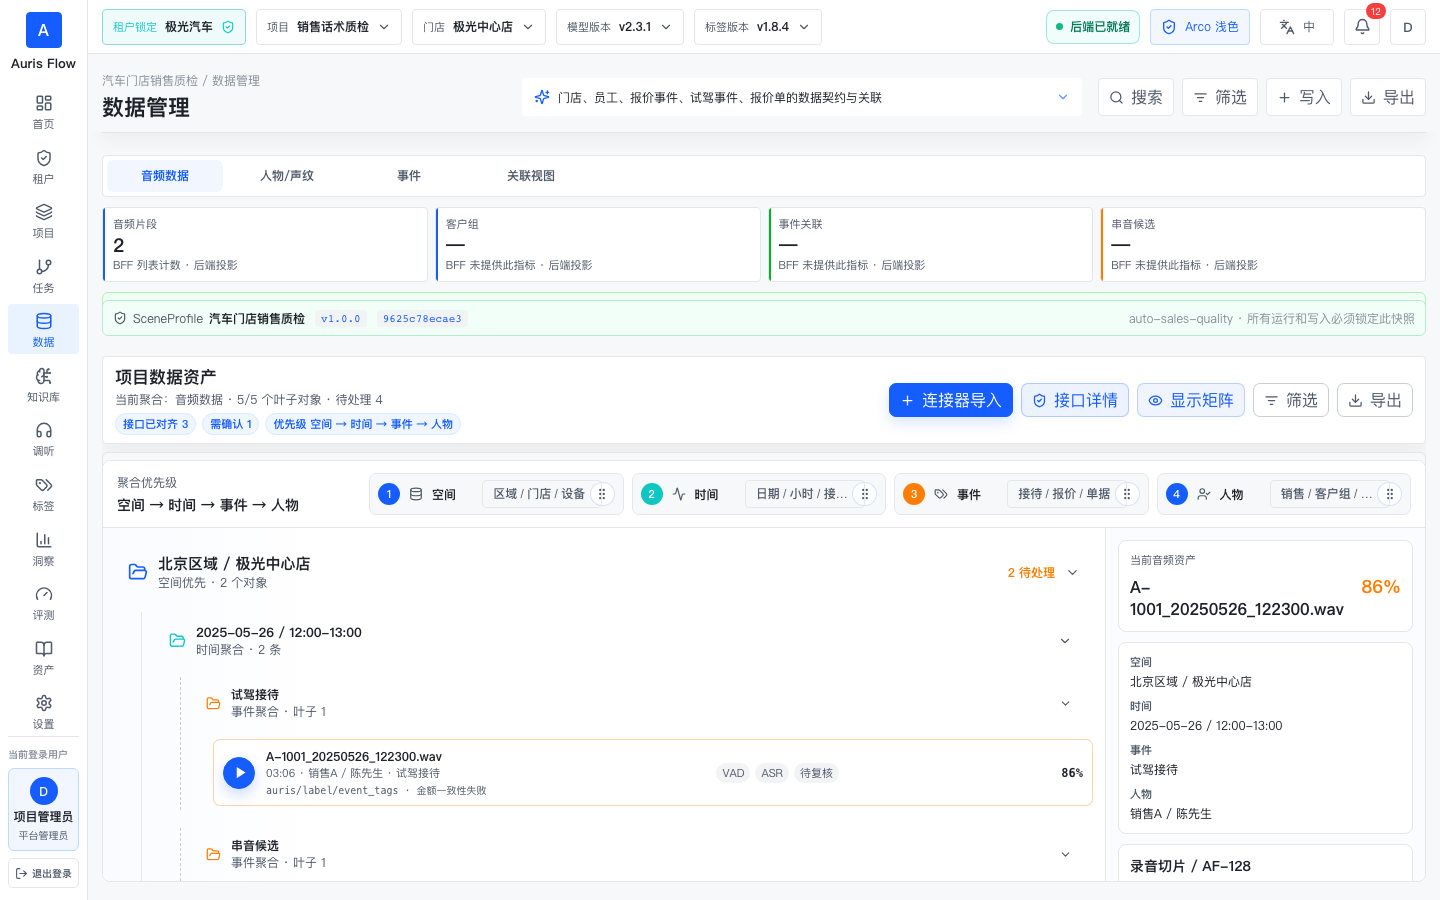
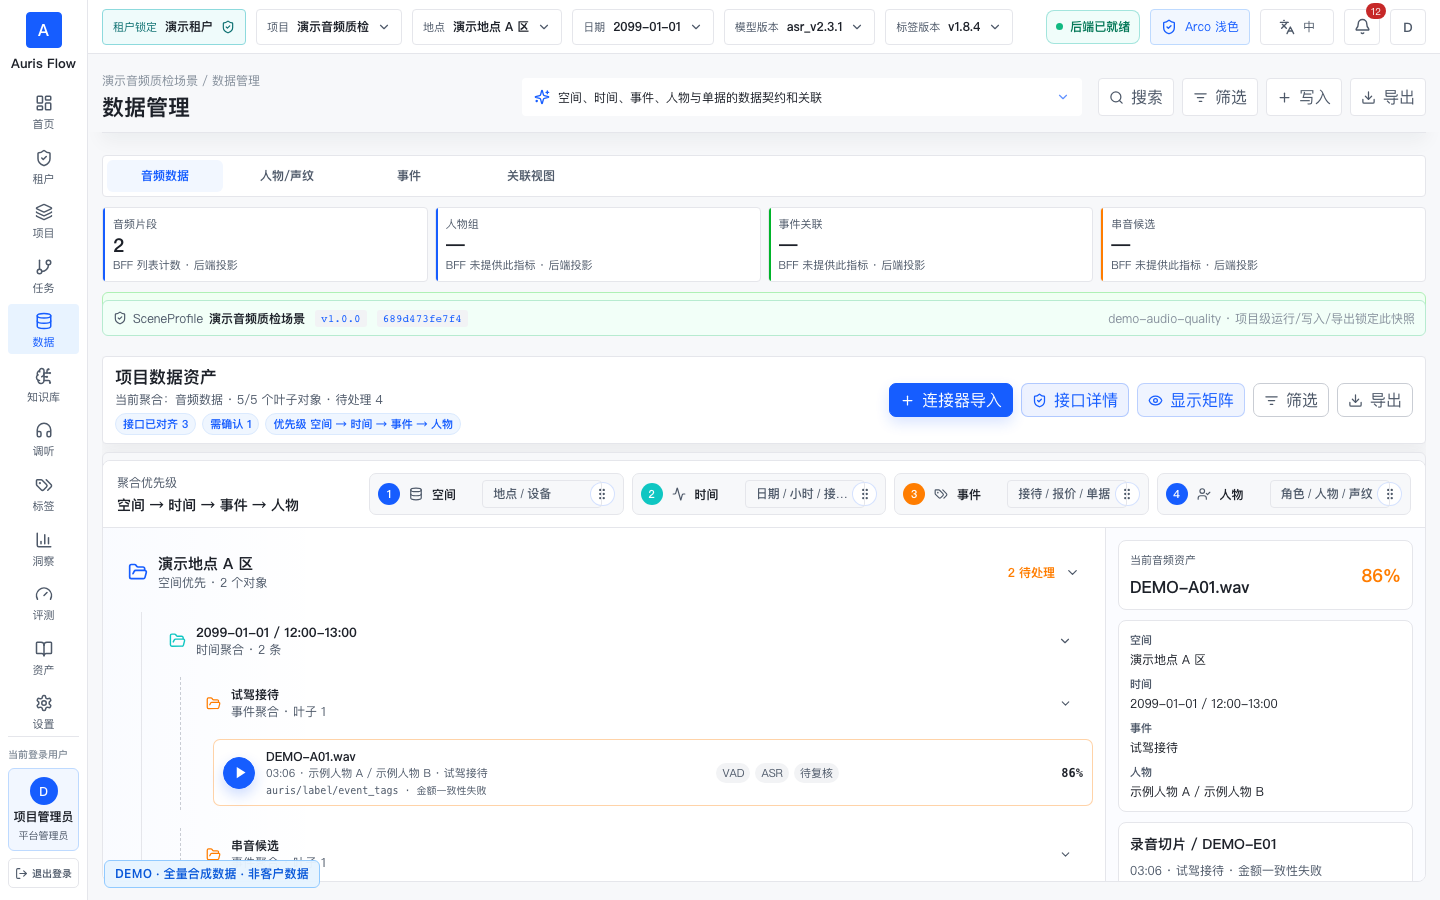
docs(readme): clarify synthetic operation screenshots (#38)
* docs(readme): clarify synthetic operation screenshots

* docs(readme): use synthetic location data

* style(tests): format Dagster gate contract

---------

diff --git a/backend/tests/unit/test_real_dagster_gate_scripts.py b/backend/tests/unit/test_real_dagster_gate_scripts.py
@@ -693,8 +693,12 @@ def test_release_gate_runs_real_dagster_and_rejects_skip_before_work() -> None:
     assert "AURIS_SKIP_REAL_DAGSTER=1 is not allowed" in result.stderr
 
 
-def test_readiness_and_readme_distinguish_real_dagster_from_protocol_fake() -> None:
+def test_readiness_and_internal_gate_contract_distinguish_real_dagster_from_protocol_fake() -> None:
     readiness = (ROOT / "scripts" / "check_platform_readiness.py").read_text(encoding="utf-8")
+    gate_doc = (ROOT / "production" / "tests" / "production-path-gate.md").read_text(
+        encoding="utf-8"
+    )
+    real_dagster_gate = (ROOT / "scripts" / "verify_real_dagster.sh").read_text(encoding="utf-8")
     readme = (ROOT / "README.md").read_text(encoding="utf-8")
 
     for path in (
@@ -706,10 +710,13 @@ def test_readiness_and_readme_distinguish_real_dagster_from_protocol_fake() -> N
         assert path in readiness
     assert "bash scripts/verify_real_dagster.sh" in readiness
     assert "AURIS_SKIP_REAL_DAGSTER=1 is not allowed" in readiness
-    assert "scripts/fake_dagster_graphql_server.py" in readme
-    assert "bash scripts/verify_real_dagster.sh" in readme
-    assert "SAFE_TERMINATE" in readme
-    assert "Dagster 引擎层" in readme
+    assert "`verify_real_stack.sh`" in gate_doc
+    assert "`verify_real_dagster.sh`" in gate_doc
+    assert "`verify_product_dagster_path.sh`" in gate_doc
+    assert "真实 Dagster" in gate_doc
+    assert "SAFE_TERMINATE" in real_dagster_gate
+    assert "scripts/fake_dagster_graphql_server.py" not in readme
+    assert "为什么“真实栈通过”不等于“真实 Dagster 通过”" not in readme
 
 
 def test_local_process_dagster_proof_is_explicitly_non_release() -> None:

diff --git a/README.md b/README.md
@@ -5,7 +5,7 @@
 ### 让每一条业务洞察，都能回到它的音频证据
 
 面向音频质检、标注、评测与洞察的可追溯工作台。<br>
-一条链路连接音频、转写、标签、模型、任务、人和最终业务结论。
+一条链路以空间、时间、事件和人物为上下文，连接音频、转写、标签、模型、任务和最终业务结论。
 
 <p>
   <a href="https://github.com/g5n-dev/auris_flow/actions/workflows/verify.yml">
@@ -46,22 +46,24 @@
 
 ## 操作导览：从导入到人工决定
 
+> 以下界面按“空间 → 时间 → 事件 → 人物”组织数据；空间维度中的地点以及租户、项目、音频、单据、金额、时间和指标均为程序生成的合成演示数据，不对应任何真实客户或业务记录。
+
 ### 1. 新建音频导入配置
 
-![数据资产中的音频资产、连接器导入、聚合层级与播放入口](doc/assets/screenshots/audio-data-assets.png)
+![数据资产中的音频资产、连接器导入、空间时间事件人物聚合与播放入口](doc/assets/screenshots/audio-data-assets.png)
 
 1. 打开 **数据资产 → 音频资产**。
-2. 点击 **连接器导入**，选择已有平台连接。
-3. 填写音频 URL API、凭证引用、分页方式和字段映射。
+2. 点击 **连接器导入**，选择已有平台连接及地点范围。
+3. 填写音频 URL API、凭证引用、分页方式、首次时间窗口和字段映射。
 4. 完成连通测试与三条记录预览，再保存并发布配置。
 
 **完成标志：** 页面回读已发布任务版本，并允许执行“立即拉取”。
 
 ### 2. 发布任务版本并立即拉取
 
-![任务配置中的平台接入、智能处理、人审策略与版本发布](doc/assets/screenshots/workflow-configuration.png)
+![任务配置中的地点范围、时间窗口、平台接入、智能处理与版本发布](doc/assets/screenshots/workflow-configuration.png)
 
-1. 在任务配置中确认平台范围、目标音频资产和后续处理策略。
+1. 在任务配置中确认地点范围、时间窗口、目标音频资产和后续处理策略。
 2. 校验配置并发布不可变任务版本。
 3. 点击 **立即拉取**，查看读取清单、下载音频、校验入库和生成会话阶段。
 4. 完成后查看成功数、重复跳过数、失败项和新音频会话。
@@ -79,7 +81,7 @@
 
 **完成标志：** 决定、受影响对象、下一通任务和根 Trace 均由 BFF 回读一致。
 
-> 截图来自可重复的视觉回归运行场景，使用脱敏演示数据；权威业务状态仍以 BFF 回读为准。
+> 截图用于说明操作路径；权威业务状态仍以 BFF 回读为准。
 
 ---
 
@@ -87,10 +89,10 @@
 
 ## 从音频到行动，不丢失上下文
 
-传统音频质检系统把音频、转写、标签、评测和报表拆成互不相干的页面。Auris Flow 把它们建模为同一条证据链：每次运行、人工判断、版本变更和业务结论都绑定 `tenant_id`、`project_id` 与 `trace_id`。
+传统音频质检系统把音频、转写、标签、评测和报表拆成互不相干的页面。Auris Flow 以“空间 → 时间 → 事件 → 人物”组织业务上下文，并把它们建模为同一条证据链：每次运行、人工判断、版本变更和业务结论都绑定 `tenant_id`、`project_id` 与 `trace_id`。
 
-- **进入系统**：连接器、批次、音频资产。保留对象身份与内容哈希。
-- **形成证据**：转写、说话人、片段、人工标注。派生结果全程可追溯。
+- **进入系统**：连接器、批次、音频资产。冻结地点范围和时间窗口，保留对象身份与内容哈希。
+- **形成证据**：事件、人物、转写、说话人、片段和人工标注。派生结果全程可追溯。
 - **做出判断**：标签版本、评测集、校准、复核。规则、模型与人保持版本绑定。
 - **推动行动**：洞察报告、实验、发布、回滚。结果可回到证据和执行记录。
 
@@ -324,18 +326,6 @@ PYTHON="$PWD/backend/.venv/bin/python" bash scripts/verify_fast.sh
 | BFF → Outbox → Dagster → 回写 | `bash scripts/verify_product_dagster_path.sh` |
 | 镜像前发行门禁 | `bash scripts/verify_release.sh --pre-image` |
 | 签名发行证据聚合 | 使用最终 tag workflow 产出的 recovery JSON、Sigstore sidecar 与同一签名 deployment，设置 `AURIS_BACKUP_RESTORE_EVIDENCE`、`AURIS_BACKUP_RESTORE_EVIDENCE_SIGSTORE_BUNDLE`、`AURIS_RELEASE_BUNDLE_ROOT`、`AURIS_RELEASE_TAG` 后运行 `bash scripts/verify_release.sh`；仍须满足 `RELEASE_CHECKLIST.md` 中独立的 `rebuild-required`、外部无标签 staging 安装与私有发行审批 |
-
-<details>
-<summary><strong>为什么“真实栈通过”不等于“真实 Dagster 通过”</strong></summary>
-
-`scripts/verify_real_stack.sh` 的 Dagster 端点由 `scripts/fake_dagster_graphql_server.py` 提供，用来
-验证开发协议、对象存储、Qdrant 与故障恢复；它不能替代 `bash scripts/verify_real_dagster.sh`。
-
-后者启动生产 Compose 的真实 Dagster，并验证 `SAFE_TERMINATE` 取消语义。该证明仍只覆盖
-**Dagster 引擎层**；产品级 BFF、Outbox、状态回写与签名 callback 由
-`bash scripts/verify_product_dagster_path.sh` 独立验收。
-
-</details>
 
 <details>
 <summary><strong>为什么本地全绿仍不能直接发布</strong></summary>
